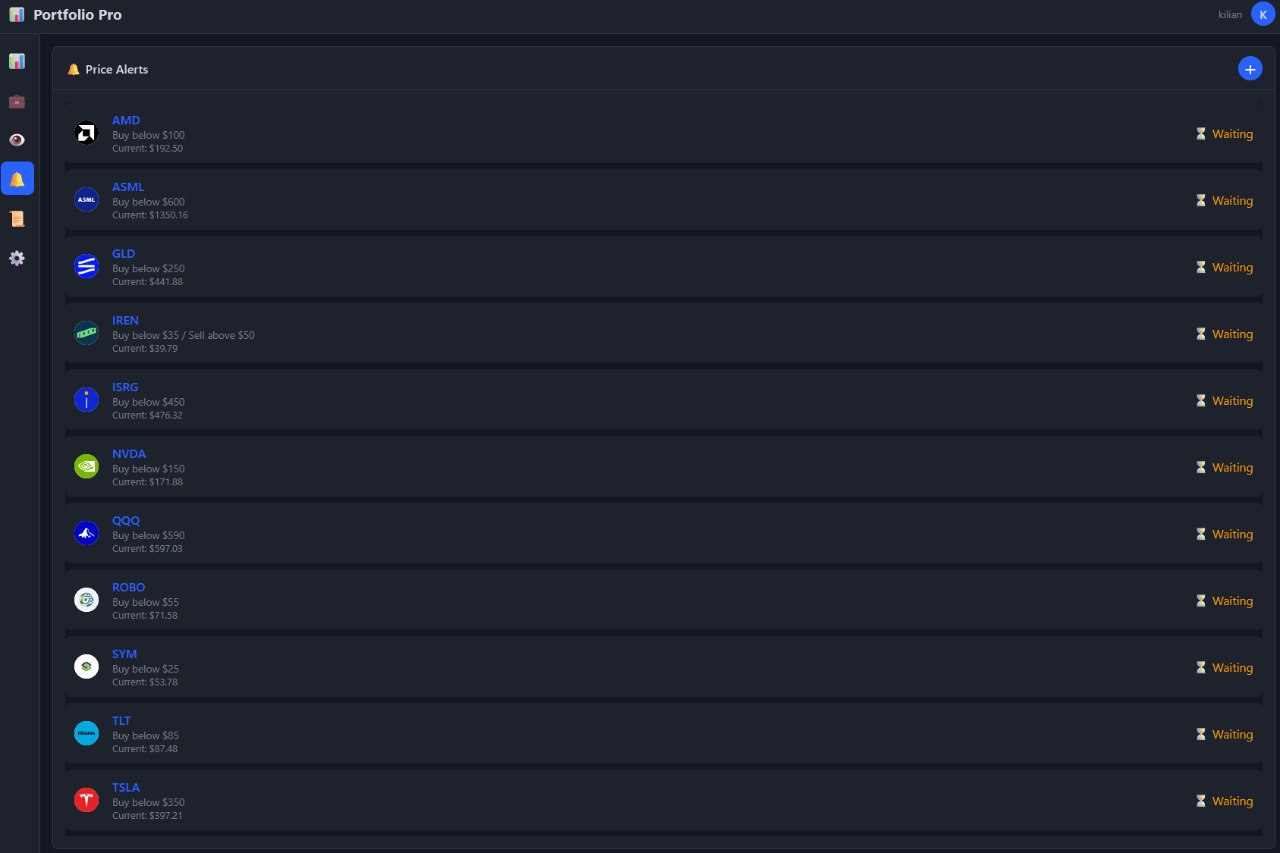
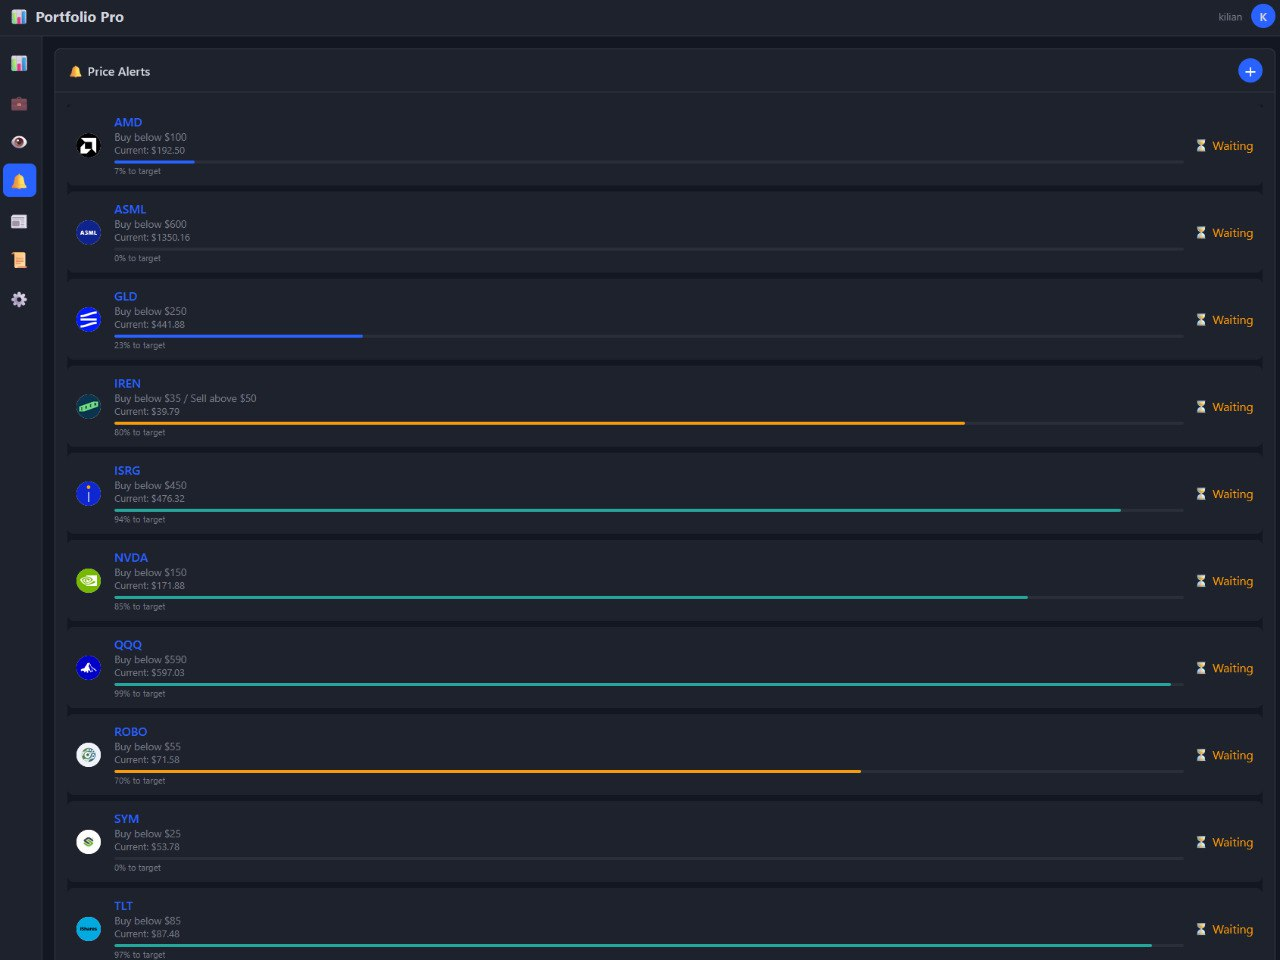
Update screenshots for v0.17.2
- Dashboard with performance chart + allocation donut
- Positions with live prices and P&L
- Watchlist with categories (Tech, Robotics, Crypto, Safe Haven)
- Alerts with proximity progress bars
- News feed with multiple sources
- Transaction history

diff --git a/README.md b/README.md
@@ -75,8 +75,11 @@ Open http://localhost:8080
 ### Alerts
 ![Alerts](screenshots/alerts.jpg)
 
-### Chart Detail
-![Chart Detail](screenshots/chart-detail.jpg)
+### News
+![News](screenshots/news.jpg)
+
+### Transactions
+![Transactions](screenshots/transactions.jpg)
 
 ## Version History
 
